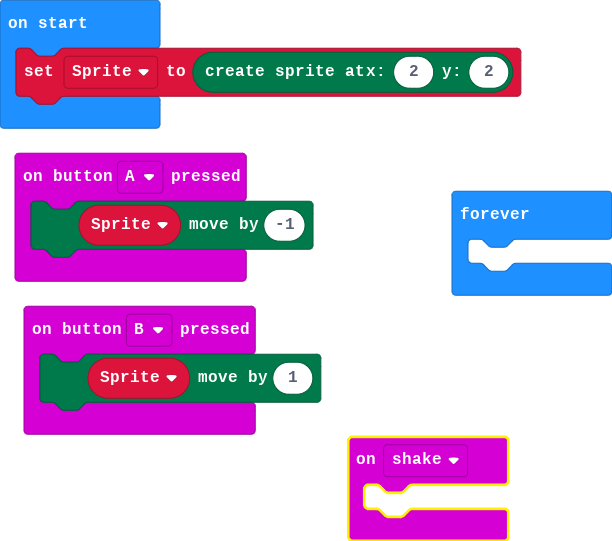
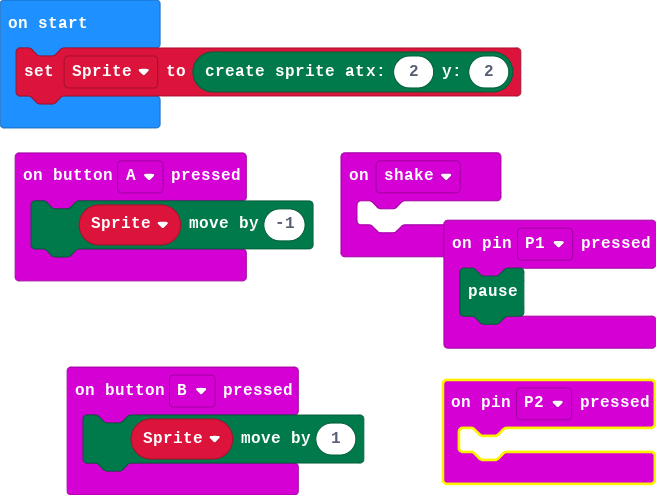
Update main.blocks, main.ts

diff --git a/main.ts b/main.ts
@@ -1,14 +1,17 @@
 input.onButtonPressed(Button.A, function () {
     Sprite.move(-1)
 })
+input.onPinPressed(TouchPin.P2, function () {
+	
+})
 input.onButtonPressed(Button.B, function () {
     Sprite.move(1)
+})
+input.onPinPressed(TouchPin.P1, function () {
+    game.pause()
 })
 input.onGesture(Gesture.Shake, function () {
 	
 })
 let Sprite: game.LedSprite = null
 Sprite = game.createSprite(2, 2)
-basic.forever(function () {
-	
-})
